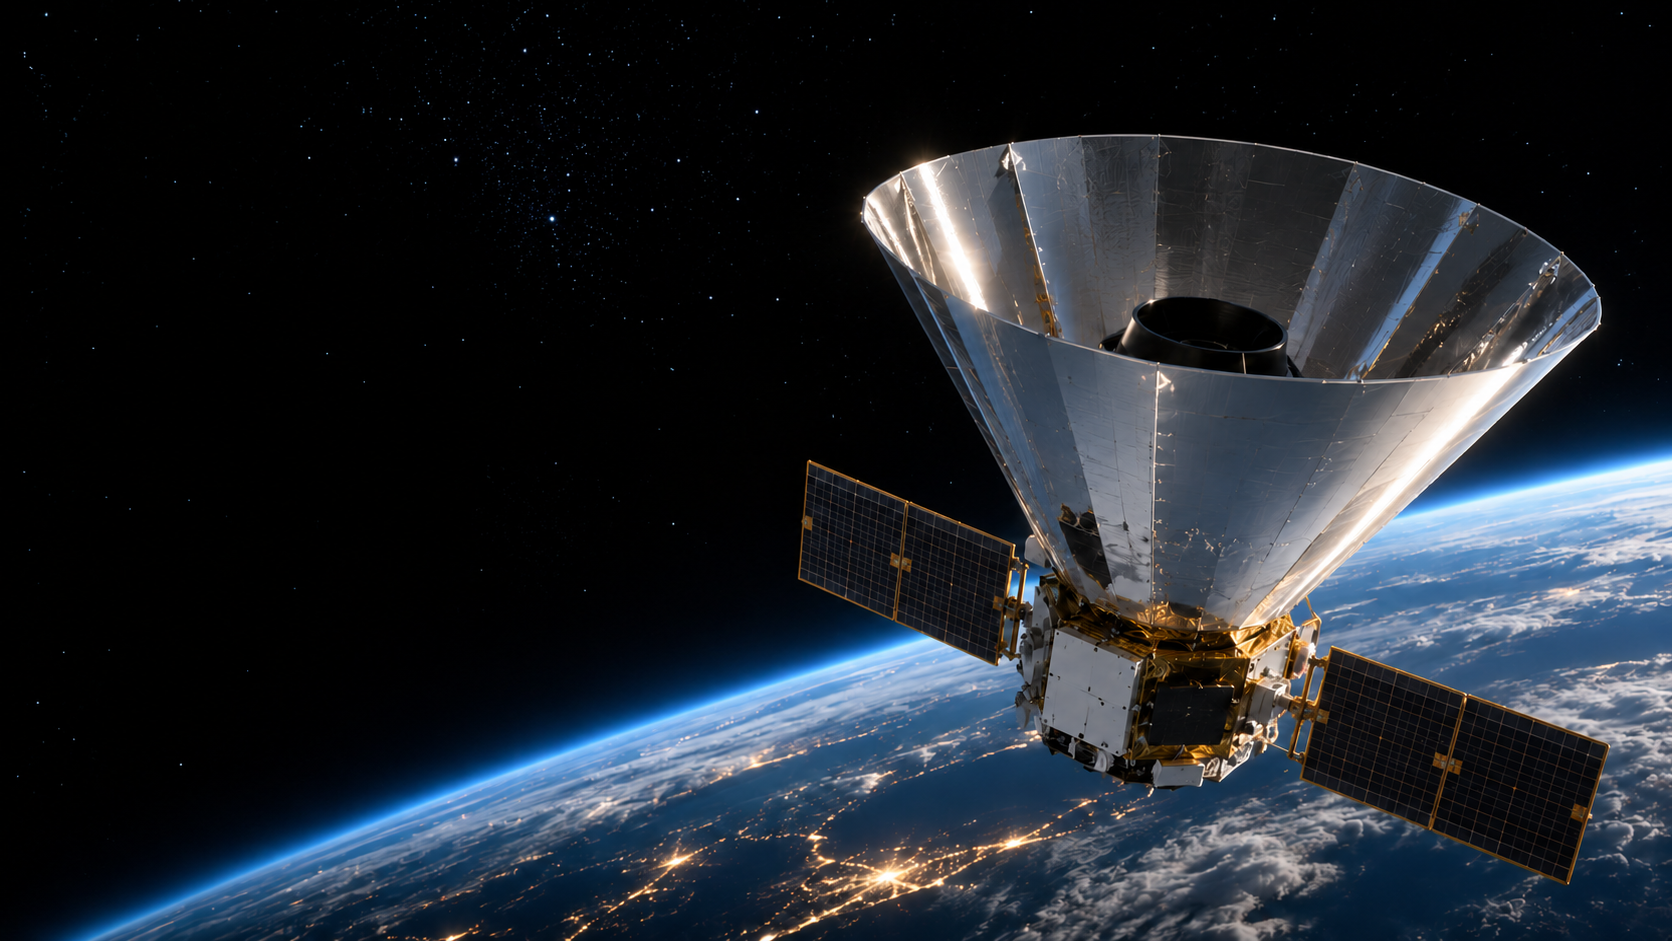
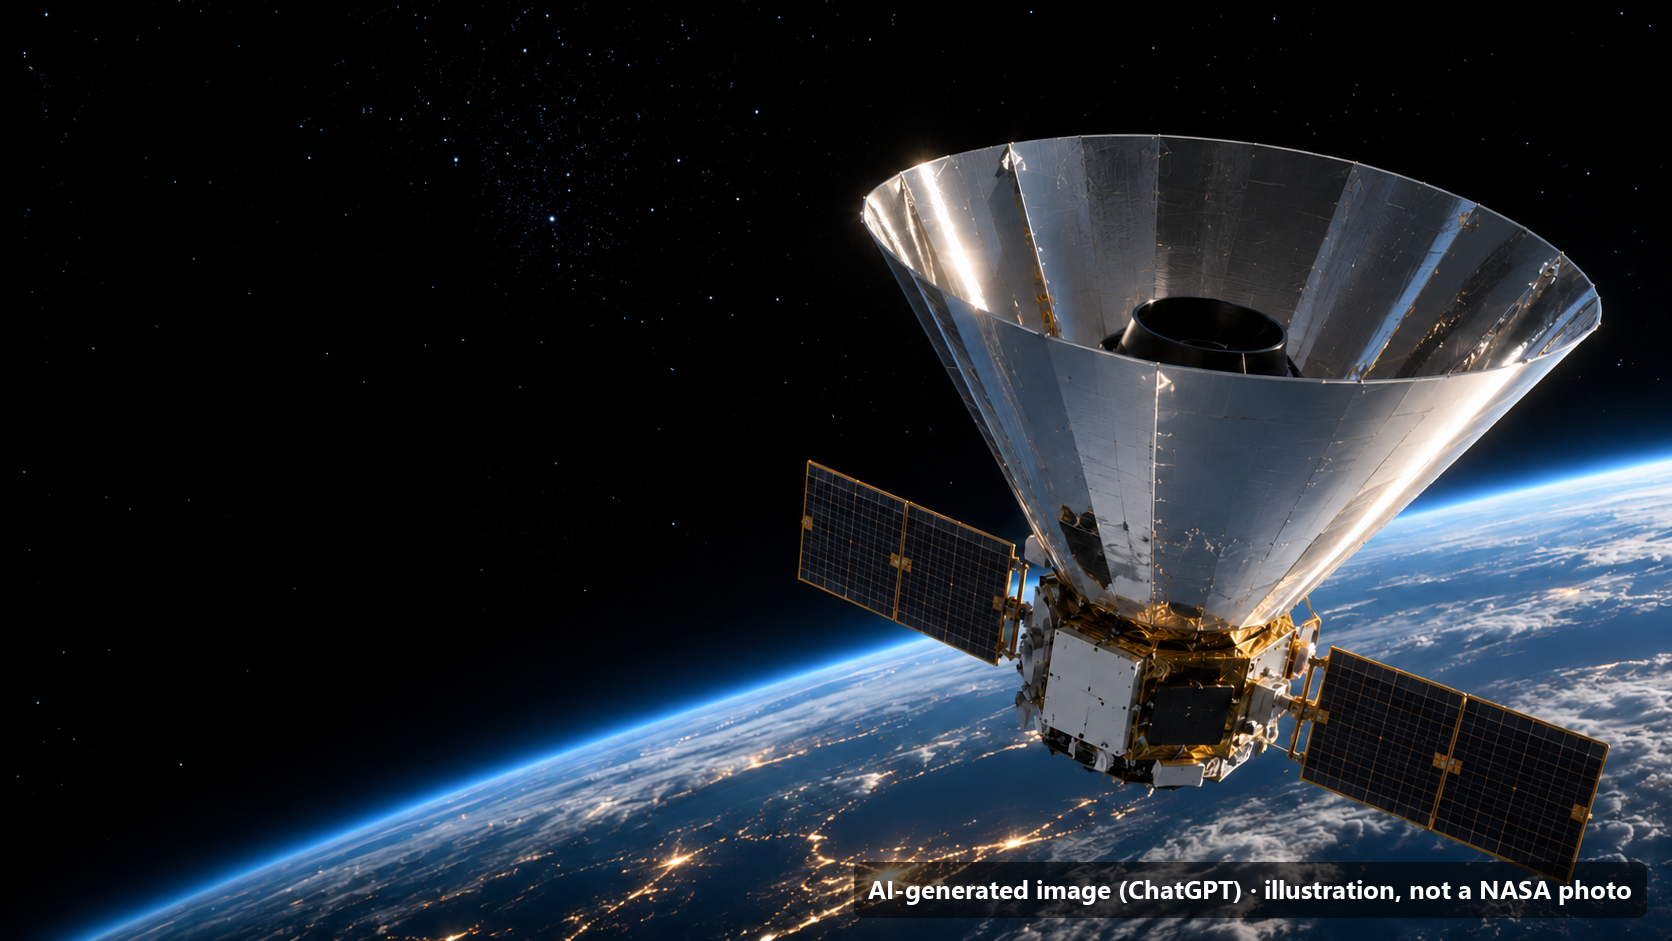
docs/fe: SI disclosure - watermark AI-generated images, document team SI use
- visible watermark on the ChatGPT landing background and logo
- footer label names both images as AI-generated
- docs/AI_USAGE.md covers code (Codex, Claude Code), demo video editing and images

Changed region(s): [[0.4976, 0.8937, 0.9952, 0.9862]]

diff --git a/frontend/src/app/LandingPage.tsx b/frontend/src/app/LandingPage.tsx
@@ -8,6 +8,6 @@ export function LandingPage({ onStart }: { onStart: () => void }) {
       </section>
       <section className="product-section" id="how-it-works"><div className="section-intro"><span className="eyebrow">From sky position to observation</span><h2>A field of view.<br />A record of time.</h2><p>Keep the image at the center of your investigation. Move through dated frames and read their source and warnings together.</p></div><div className="product-workflow"><article><span>01 / Position</span><h3>Choose your field</h3><p>Use one of five reference targets or enter RA, Dec, and a search radius. Presets do not guarantee coverage.</p></article><article><span>02 / Time</span><h3>Follow the epochs</h3><p>Step, scrub, or play through a chronologically ordered timeline. Each frame keeps its observation date.</p></article><article><span>03 / Context</span><h3>Read the provenance</h3><p>Origin labels and quality notices stay beside the observation, including frames without an available preview.</p></article><button className="text-action" onClick={onStart}>Open the observation workspace ↗</button></div></section>
       <section className="interpretation"><h2>Observation comes first.</h2><div><p>Synthetic mode uses generated interface fixtures. Backend mode shows the origin reported for each frame and may also return synthetic data.</p><p>Visual changes alone do not establish motion or brightness variation. Scientific analysis is not available in this workspace.</p></div></section>
-    </main><footer className="landing-footer"><span>SPHEREx Change Lens / Observation Atlas</span><span>SPHEREx-inspired illustration · AI-generated</span><a href="https://www.jpl.nasa.gov/jpl-image-use-policy/">Image use policy</a><span>Independent project. No NASA endorsement implied.</span></footer>
+    </main><footer className="landing-footer"><span>SPHEREx Change Lens / Observation Atlas</span><span>Background illustration and logo: AI-generated with ChatGPT (watermarked)</span><a href="https://www.jpl.nasa.gov/jpl-image-use-policy/">Image use policy</a><span>Independent project. No NASA endorsement implied.</span></footer>
   </div>;
 }

diff --git a/docs/AI_USAGE.md b/docs/AI_USAGE.md
@@ -5,3 +5,10 @@ Codex assisted with the Python 3.10 project setup, draft Pydantic contracts, fiv
 The recorded VOTable fixtures and in-memory FITS products used in unit tests are synthetic test inputs. The authentic Barnard's Star cutout is separate: it was retrieved from the IRSA URL recorded in its source manifest, labeled as cached, and kept in the git-ignored cache directory. Its FITS container was checked, but no science, WCS, or photometric validation was performed. The authentic timeline fixture preserves that limitation in its warning fields.
 
 Target names and the exact WISE 0855 coordinates came from the user-provided challenge materials. Other catalogued J2000 coordinates were taken from SIMBAD and listed in [`REFERENCES.md`](REFERENCES.md). All target coverage remains `UNVERIFIED`; the draft contracts still need INT-001 review and freeze.
+
+## Super Intelligence (SI) use, whole team (NASA Space Apps 2026 disclosure)
+
+- **Code and data (KP / DATA):** Codex, as described above.
+- **Code (Felix / backend + integration):** Claude Code (Anthropic) assisted with the FastAPI backend (investigations, timeline, artifacts, SQLite), the IRSA archive client with north-up alignment and preview rendering, wiring the SCI pipeline into `/movers` and `/evidence`, the demo pre-warm script and caches, CI changes, and tests. All changes went through pull requests reviewed by the team.
+- **Demo video:** edited with Claude Code (automated screen recording of the real app, motion title scenes and captions). It carries a visible SI watermark. All sky imagery in the video is real SPHEREx data retrieved from NASA/IPAC IRSA. The voiceover is a human recording (no SI audio).
+- **Images:** the landing page background illustration and the spacecraft logo were generated with ChatGPT. Both carry a visible "AI" watermark on the image itself and are labelled in the site footer. They are illustrations, not NASA photographs, and contain no NASA logos or insignia.
